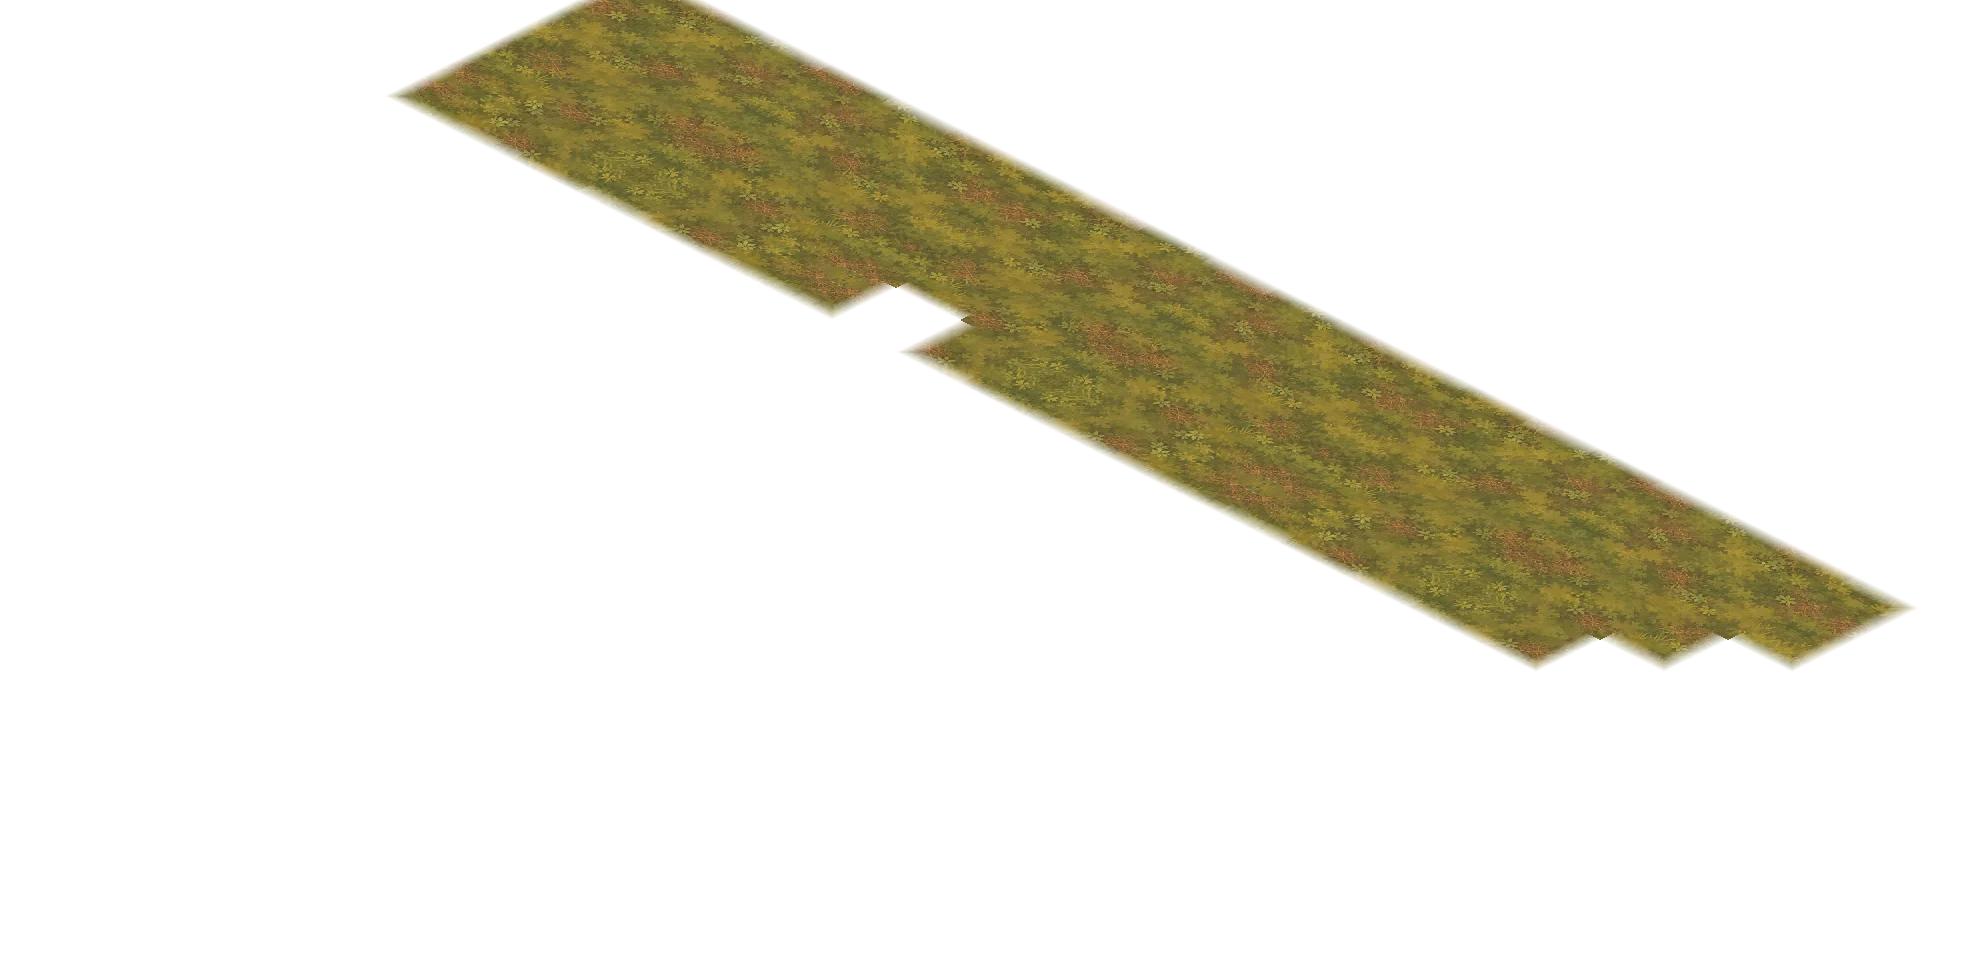
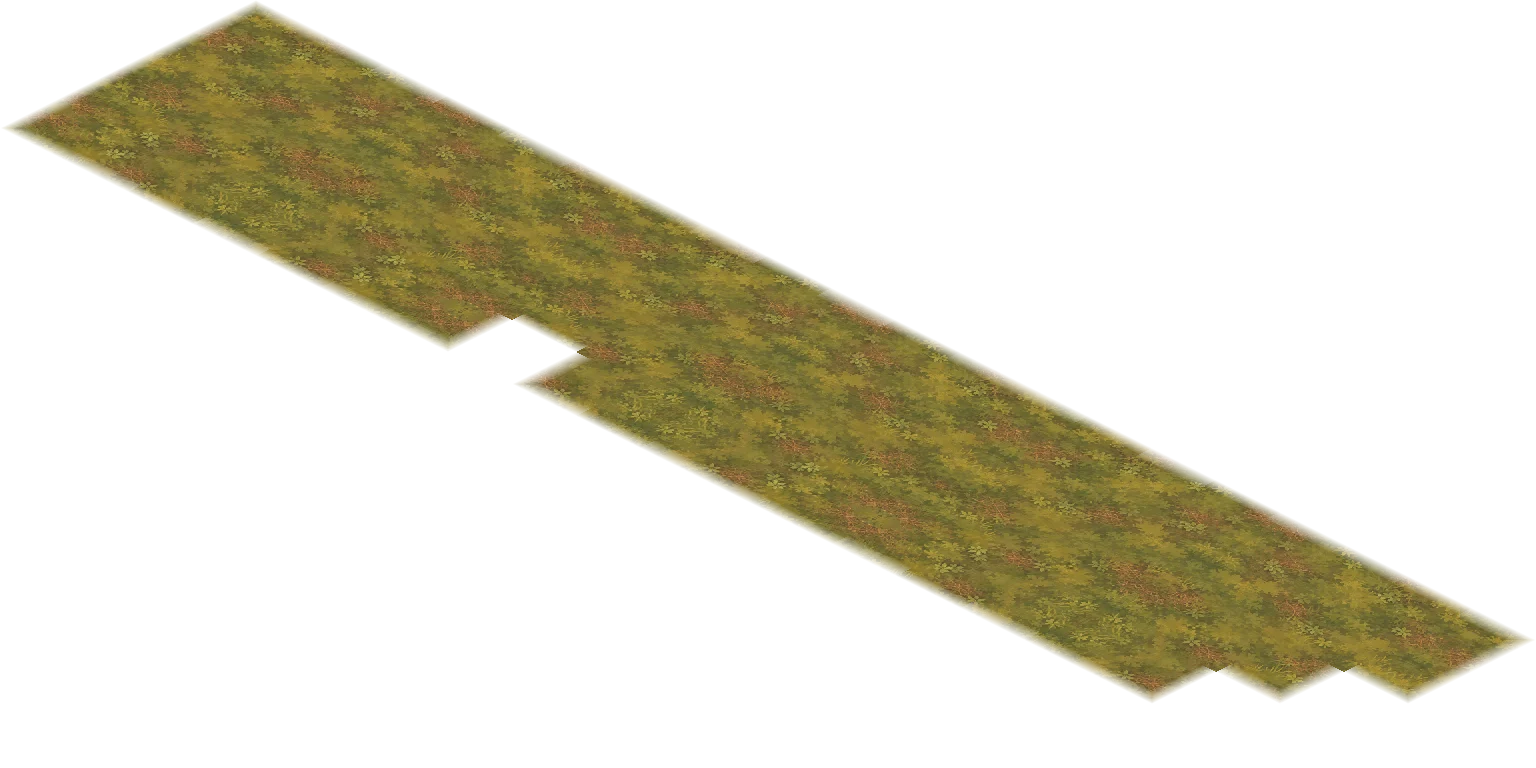
Fix forest grass pack registration

diff --git a/scripts/art/forest-grass-regions.test.ts b/scripts/art/forest-grass-regions.test.ts
@@ -1,11 +1,12 @@
 import { readFileSync } from 'node:fs';
 import { expect, it } from 'vitest';
+import { FOREST_ROAD } from '../../src/content/maps/combat';
 import { FOREST_WATER_CELLS } from '../../src/content/scenes/forestRoad';
+import { FOREST_GRASS_REGIONS } from '../../src/content/scenes/forestRoadGround';
 import { pixelAt, readImage } from './lib/image';
 import { encodeWebp } from './lib/webp';
 import {
   FOREST_GRASS_PACKS,
-  FOREST_GRASS_REGION,
   grassPosition,
   packGrassRegion,
   withinGrassRegion,
@@ -13,34 +14,56 @@ import {
 
 const source = 'assets/source/forest-material-v2/material-sheet.png';
 
-it('ships reproducible sparse grass packs with transparent water and non-grass cells', async () => {
+it('ships reproducible sparse grass packs with fully covered eligible centers', async () => {
   const atlas = readImage(source);
   for (const pack of FOREST_GRASS_PACKS) {
-    const image = packGrassRegion(atlas, pack.rows);
+    const image = packGrassRegion(atlas, pack.rows, pack.region);
     expect(Buffer.from(await encodeWebp(image, 86, true))).toEqual(readFileSync(pack.output));
     let opaque = 0,
-      feather = 0;
+      feather = 0,
+      waterLeaks = 0,
+      nonGrassLeaks = 0;
     for (let py = 0; py < image.height; py++)
       for (let px = 0; px < image.width; px++) {
-        const { x, y } = grassPosition(px, py);
+        const { x, y } = grassPosition(px, py, pack.region);
         const alpha = pixelAt(image, px, py)[3];
         const water = FOREST_WATER_CELLS.some(
           (cell) => x >= cell.x && x < cell.x + 1 && y >= cell.y && y < cell.y + 1,
         );
-        if (water) expect(alpha).toBe(0);
+        if (water && alpha > 0) waterLeaks++;
         if (alpha > 0) {
           opaque++;
-          expect(withinGrassRegion(Math.floor(x), Math.floor(y), pack.rows)).toBe(true);
+          if (!withinGrassRegion(Math.floor(x), Math.floor(y), pack.rows)) nonGrassLeaks++;
         }
         if (alpha > 0 && alpha < 255) feather++;
       }
+    expect({ waterLeaks, nonGrassLeaks }).toEqual({ waterLeaks: 0, nonGrassLeaks: 0 });
     expect(opaque, `${pack.name} pack has content`).toBeGreaterThan(1_000);
     expect(feather, `${pack.name} pack has a soft edge`).toBeGreaterThan(1_000);
+
+    for (let y = 0; y < FOREST_ROAD.height; y++)
+      for (let x = 0; x < FOREST_ROAD.width; x++) {
+        if (!withinGrassRegion(x, y, pack.rows)) continue;
+        const worldX = 768 + (x - y) * 64;
+        const worldY = (x + y + 1) * 32;
+        const px = Math.floor(worldX - pack.region.x);
+        const py = Math.floor(worldY - pack.region.y);
+        expect(px, `${pack.name} ${x},${y} horizontal registration`).toBeGreaterThanOrEqual(0);
+        expect(px, `${pack.name} ${x},${y} horizontal registration`).toBeLessThan(
+          pack.region.width,
+        );
+        expect(py, `${pack.name} ${x},${y} vertical registration`).toBeGreaterThanOrEqual(0);
+        expect(py, `${pack.name} ${x},${y} vertical registration`).toBeLessThan(pack.region.height);
+        expect(pixelAt(image, px, py)[3], `${pack.name} ${x},${y} center alpha`).toBe(255);
+      }
   }
 });
 
-it('shares the registered local canvas without creating a full-map ground replacement', () => {
-  expect(FOREST_GRASS_REGION).toEqual({ x: 128, y: 32, width: 1984, height: 960 });
+it('uses separate projected registrations without creating a full-map ground replacement', () => {
+  expect(FOREST_GRASS_REGIONS).toEqual({
+    north: { x: 512, y: 0, width: 1536, height: 768 },
+    south: { x: 0, y: 288, width: 1472, height: 736 },
+  });
   expect(FOREST_GRASS_PACKS.map((pack) => pack.rows)).toEqual([
     [0, 1, 2, 3],
     [9, 10, 11],

diff --git a/scripts/art/forest-grass-regions.ts b/scripts/art/forest-grass-regions.ts
@@ -1,23 +1,37 @@
 /** Pack sparse reusable grass regions around the forest road from the material sheet. */
 import { mkdirSync, writeFileSync } from 'node:fs';
 import { FOREST_ROAD } from '../../src/content/maps/combat';
+import { FOREST_GRASS_REGIONS } from '../../src/content/scenes/forestRoadGround';
 import { newImage, pixelAt, readImage, setPixel } from './lib/image';
 import type { Image } from './lib/image';
 import { encodeWebp } from './lib/webp';
 
-export const FOREST_GRASS_REGION = { x: 128, y: 32, width: 1984, height: 960 } as const;
 export const FOREST_GRASS_PACKS = [
-  { name: 'north', rows: [0, 1, 2, 3], output: 'public/art/maps/forest-scene/grass-north.webp' },
-  { name: 'south', rows: [9, 10, 11], output: 'public/art/maps/forest-scene/grass-south.webp' },
+  {
+    name: 'north',
+    rows: [0, 1, 2, 3],
+    region: FOREST_GRASS_REGIONS.north,
+    output: 'public/art/maps/forest-scene/grass-north.webp',
+  },
+  {
+    name: 'south',
+    rows: [9, 10, 11],
+    region: FOREST_GRASS_REGIONS.south,
+    output: 'public/art/maps/forest-scene/grass-south.webp',
+  },
 ] as const;
 
 function clamp(value: number): number {
   return Math.max(0, Math.min(1, value));
 }
 
-export function grassPosition(px: number, py: number) {
-  const worldX = FOREST_GRASS_REGION.x + px + 0.5;
-  const worldY = FOREST_GRASS_REGION.y + py + 0.5;
+export function grassPosition(
+  px: number,
+  py: number,
+  region: (typeof FOREST_GRASS_PACKS)[number]['region'],
+) {
+  const worldX = region.x + px + 0.5;
+  const worldY = region.y + py + 0.5;
   const dx = (worldX - 768) / 64,
     dy = worldY / 32;
   return { x: (dx + dy) / 2, y: (dy - dx) / 2 };
@@ -35,14 +49,18 @@ export function withinGrassRegion(x: number, y: number, rows: readonly number[])
   return rows.includes(y) && (key === ',' || key === 'T');
 }
 
-export function packGrassRegion(atlas: Image, rows: readonly number[]): Image {
+export function packGrassRegion(
+  atlas: Image,
+  rows: readonly number[],
+  region: (typeof FOREST_GRASS_PACKS)[number]['region'],
+): Image {
   const swatch = Math.floor(Math.min(atlas.width, atlas.height) / 2);
   const edge = 3;
   const period = swatch - edge * 2;
-  const image = newImage(FOREST_GRASS_REGION.width, FOREST_GRASS_REGION.height);
+  const image = newImage(region.width, region.height);
   for (let py = 0; py < image.height; py++)
     for (let px = 0; px < image.width; px++) {
-      const { x, y } = grassPosition(px, py);
+      const { x, y } = grassPosition(px, py, region);
       const ix = Math.floor(x),
         iy = Math.floor(y);
       if (!withinGrassRegion(ix, iy, rows)) continue;
@@ -72,7 +90,7 @@ export async function main(source: string) {
   const atlas = readImage(source);
   mkdirSync('public/art/maps/forest-scene', { recursive: true });
   for (const pack of FOREST_GRASS_PACKS) {
-    const image = packGrassRegion(atlas, pack.rows);
+    const image = packGrassRegion(atlas, pack.rows, pack.region);
     writeFileSync(pack.output, await encodeWebp(image, 86, true));
   }
 }

diff --git a/src/content/scenes/forestRoad.ts b/src/content/scenes/forestRoad.ts
@@ -1,10 +1,9 @@
 import type { MapScene, SceneScenery, Vec2 } from '../../core/types';
+import { FOREST_GRASS_REGIONS } from './forestRoadGround';
 
 const root = 'art/maps/forest-scene/';
 /** Water stays on its eight cells; padding carries only a narrow dry shoreline matte. */
 export const FOREST_POND_PATCH = { x: 560, y: 304, width: 352, height: 192 } as const;
-/** Both sparse grass packs use this shared projected registration canvas. */
-export const FOREST_GRASS_REGION = { x: 128, y: 32, width: 1984, height: 960 } as const;
 /** Asset footprints are checked against the authoritative map rows in forestRoad.test.ts. */
 export const FOREST_WATER_CELLS: readonly Vec2[] = [
   { x: 5, y: 5 },
@@ -59,8 +58,8 @@ export const FOREST_ROAD_SCENE: MapScene = {
   groundMode: 'partial',
   paintedRubble: FOREST_RUBBLE_CELLS,
   ground: [
-    { url: `${root}grass-north.webp`, ...FOREST_GRASS_REGION },
-    { url: `${root}grass-south.webp`, ...FOREST_GRASS_REGION },
+    { url: `${root}grass-north.webp`, ...FOREST_GRASS_REGIONS.north },
+    { url: `${root}grass-south.webp`, ...FOREST_GRASS_REGIONS.south },
     { url: `${root}route-ground.webp`, x: 128, y: 32, width: 1984, height: 960 },
     { url: `${root}pond-bank.webp`, ...FOREST_POND_PATCH },
     ...FOREST_RUBBLE_CELLS.map(({ x, y }) => ({

diff --git a/src/content/scenes/forestRoad.test.ts b/src/content/scenes/forestRoad.test.ts
@@ -2,11 +2,11 @@ import { expect, it } from 'vitest';
 import { FOREST_ROAD } from '../maps/combat';
 import {
   FOREST_PINE_CELLS,
-  FOREST_GRASS_REGION,
   FOREST_ROAD_SCENE,
   FOREST_RUBBLE_CELLS,
   FOREST_WATER_CELLS,
 } from './forestRoad';
+import { FOREST_GRASS_REGIONS } from './forestRoadGround';
 
 const cells = (key: string) =>
   FOREST_ROAD.rows.flatMap((row, y) =>
@@ -18,10 +18,10 @@ it('registers forest art only to the existing water, cover and blocked tree cell
   expect(FOREST_ROAD_SCENE.ground.map((piece) => piece.url)).toContain(
     'art/maps/forest-scene/route-ground.webp',
   );
-  for (const url of ['grass-north.webp', 'grass-south.webp']) {
+  for (const [name, region] of Object.entries(FOREST_GRASS_REGIONS)) {
     expect(FOREST_ROAD_SCENE.ground).toContainEqual({
-      url: `art/maps/forest-scene/${url}`,
-      ...FOREST_GRASS_REGION,
+      url: `art/maps/forest-scene/grass-${name}.webp`,
+      ...region,
     });
   }
   expect(FOREST_ROAD_SCENE.ground.map((piece) => piece.url)).not.toContain(

diff --git a/src/content/scenes/forestRoadGround.ts b/src/content/scenes/forestRoadGround.ts
@@ -1,0 +1,5 @@
+/** Projected bounds for the independent reusable forest-grass packs. */
+export const FOREST_GRASS_REGIONS = {
+  north: { x: 512, y: 0, width: 1536, height: 768 },
+  south: { x: 0, y: 288, width: 1472, height: 736 },
+} as const;
